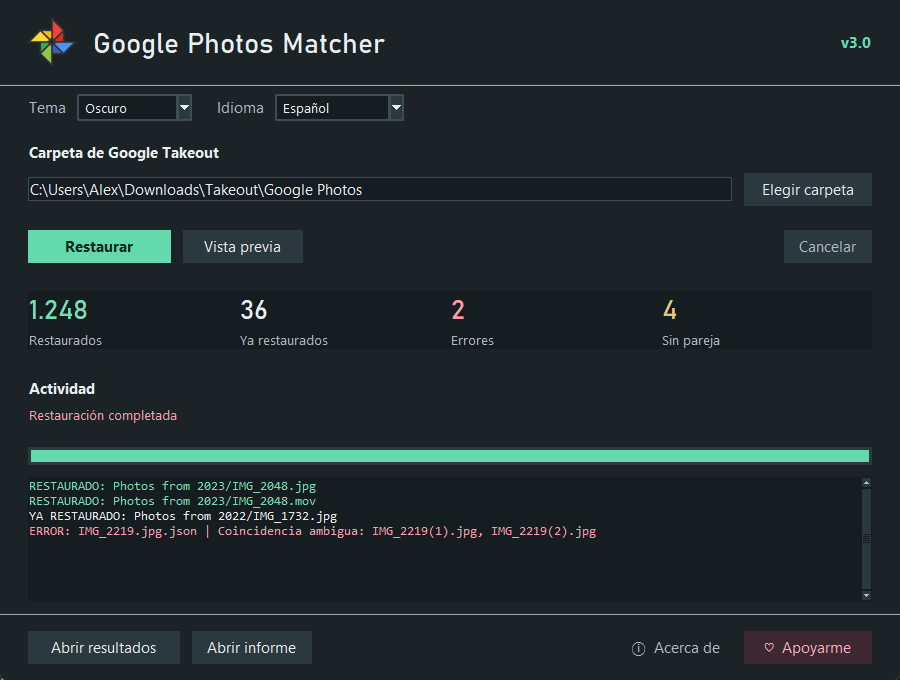
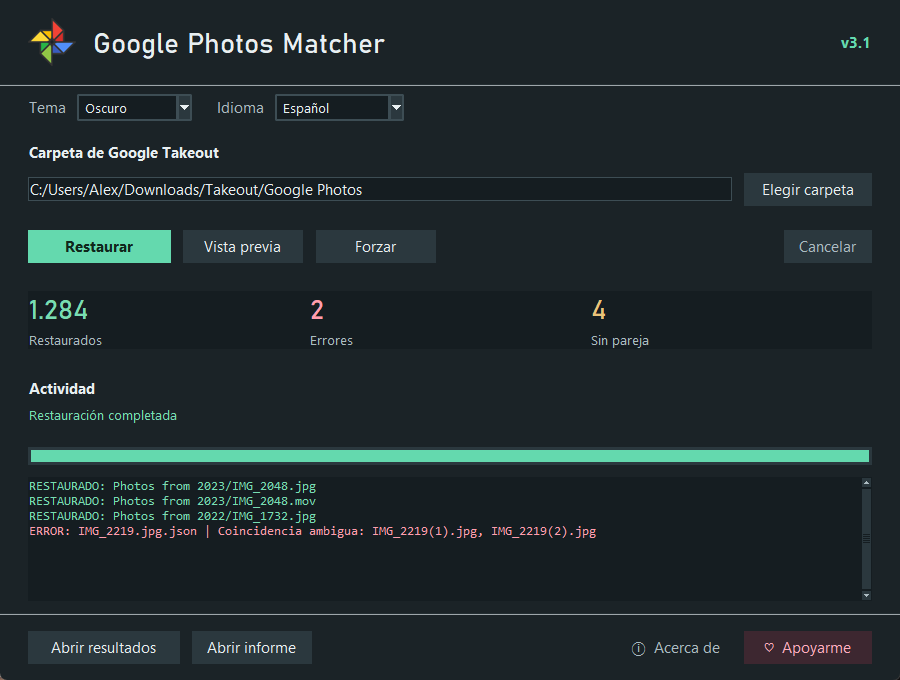
Update README and translations for v3.1: improve backup and force match descriptions; update release notes and image references.

diff --git a/files/translations.py b/files/translations.py
@@ -13,11 +13,11 @@ TEXT = {
         "theme_tip": "Choose the app theme", "language_tip": "Choose the app language",
         "browser_failed": "Could not open browser: {detail}", "preferences_failed": "Could not save preferences: {detail}",
         "backup_title": "A backup is a good idea",
-        "backup_message": "Make a backup of this folder before continuing. Future-you is a big fan of backups.\n\nGPMatcher will edit the media, move restored files into MatchedMedia and originals of edited photos into EditedRaw, and delete their JSON sidecars. Failed files and their JSON stay in their original folders.\n\nA failed write may already have changed some metadata. GPMatcher restores dates, not the past.",
+        "backup_message": "Make a backup of this folder before continuing. Future-you is a big fan of backups.\n\nGPMatcher edits the originals. Restored media go into the flat MatchedMedia folder; originals of edited photos go into the flat EditedRaw folder. Takeout subfolders are not recreated. Name clashes get a number (photo(1).jpg), never overwriting existing files. Successful matches delete their JSON; failed or unmatched files keep theirs.\n\nThere is no automatic backup or undo. A failed write may have changed some metadata. GPMatcher restores dates, not the past.",
         "backup_continue": "Continue and match",
-        "force": "Force match", "force_tip": "Retry failed files with riskier fixes",
-        "force_title": "Force match the failed files?",
-        "force_message": "GPMatcher will retry the files that failed using riskier fixes:\n\n\u2022 Rename files whose content belongs to another format (for example, a PNG named .jpg).\n\u2022 Ignore minor metadata errors, rebuild damaged metadata or, as a last resort, remove the metadata already embedded in the file (camera, lens, etc.) before writing the Google Photos data.\n\u2022 Use the only file with the same name but another extension, and discard invalid GPS or descriptions.\n\nRisky fixes are tried on a temporary copy first. Forced results are saved in MatchedMedia/ForcedMatches so you can review them. Files that still fail stay in their folder as unmatched.",
+        "force": "Force match", "force_tip": "Retry errors and unmatched files with riskier fixes",
+        "force_title": "Force match the remaining files?",
+        "force_message": "Make a backup before continuing. GPMatcher retries failed or unmatched files with riskier fixes:\n\n\u2022 Correct extensions using the real file content (for example, a PNG named .jpg).\n\u2022 Ignore minor errors, rebuild damaged metadata or, as a last resort, remove existing metadata (camera, lens, etc.) before writing the Google Photos data.\n\u2022 Use the only file with the same name and another extension; discard invalid GPS or descriptions.\n\nMetadata repair retries use a temporary copy, replacing the original only on success. Live Photos only get the non-destructive retry.\n\nResults: MatchedMedia/ForcedMatches; edited originals: EditedRaw/ForcedMatches. Files that still fail keep their JSON, count as unmatched and appear in the CSV report. MKV files, missing dates and ambiguous matches cannot be forced.",
         "force_continue": "Force match",
     },
     "es": {
@@ -32,11 +32,11 @@ TEXT = {
         "theme_tip": "Elegir el tema de la aplicaci\u00f3n", "language_tip": "Elegir el idioma de la aplicaci\u00f3n",
         "browser_failed": "No se pudo abrir el navegador: {detail}", "preferences_failed": "No se pudieron guardar las preferencias: {detail}",
         "backup_title": "Una copia de seguridad viene bien",
-        "backup_message": "Recomendamos hacer una copia de esta carpeta antes de continuar. Tu yo del futuro te lo agradecer\u00e1; quiz\u00e1 hasta te invite a un caf\u00e9.\n\nGPMatcher modificar\u00e1 los archivos, guardar\u00e1 los restaurados en MatchedMedia y los originales de fotos editadas en EditedRaw, y borrar\u00e1 sus JSON. Los que fallen se quedar\u00e1n en su carpeta con su JSON.\n\nUn fallo de escritura puede dejar metadatos cambiados. Restauramos fechas, no viajamos en el tiempo.",
+        "backup_message": "Recomendamos hacer una copia de esta carpeta antes de continuar. Tu yo del futuro te lo agradecer\u00e1; quiz\u00e1 hasta te invite a un caf\u00e9.\n\nGPMatcher modifica los originales. Los restaurados van a la carpeta plana MatchedMedia y los originales de fotos editadas a la carpeta plana EditedRaw. No se recrean las subcarpetas de Takeout. Los nombres repetidos reciben un n\u00famero (photo(1).jpg), sin sobrescribir archivos. Las parejas completadas pierden su JSON; los archivos con errores o sin pareja lo conservan.\n\nNo hay copia autom\u00e1tica ni deshacer. Un fallo de escritura puede dejar metadatos cambiados. Restauramos fechas, no viajamos en el tiempo.",
         "backup_continue": "Continuar y restaurar",
-        "force": "Forzar", "force_tip": "Reintentar los archivos fallidos con arreglos m\u00e1s arriesgados",
-        "force_title": "\u00bfForzar los archivos fallidos?",
-        "force_message": "GPMatcher reintentar\u00e1 los archivos que fallaron con arreglos m\u00e1s arriesgados:\n\n\u2022 Renombrar archivos cuyo contenido es de otro formato (por ejemplo, un PNG llamado .jpg).\n\u2022 Ignorar errores menores de metadatos, reconstruir metadatos da\u00f1ados o, como \u00faltimo recurso, borrar los metadatos que ya tiene el archivo (c\u00e1mara, objetivo, etc.) antes de escribir los de Google Fotos.\n\u2022 Usar el \u00fanico archivo con el mismo nombre y otra extensi\u00f3n, y descartar GPS o descripciones no v\u00e1lidos.\n\nLos arreglos arriesgados se prueban antes en una copia temporal. Los resultados forzados se guardan en MatchedMedia/ForcedMatches para que puedas revisarlos. Los que sigan fallando se quedar\u00e1n en su carpeta como sin pareja.",
+        "force": "Forzar", "force_tip": "Reintentar errores y archivos sin pareja con arreglos m\u00e1s arriesgados",
+        "force_title": "\u00bfForzar los archivos pendientes?",
+        "force_message": "Haz una copia de seguridad antes de continuar. GPMatcher reintenta archivos con errores o sin pareja con arreglos m\u00e1s arriesgados:\n\n\u2022 Corregir extensiones seg\u00fan el contenido real (por ejemplo, un PNG llamado .jpg).\n\u2022 Ignorar errores menores, reconstruir metadatos da\u00f1ados o, como \u00faltimo recurso, borrar metadatos existentes (c\u00e1mara, objetivo, etc.) antes de escribir los de Google Fotos.\n\u2022 Usar el \u00fanico archivo con el mismo nombre y otra extensi\u00f3n; descartar GPS o descripciones no v\u00e1lidos.\n\nLos reintentos de reparaci\u00f3n usan una copia temporal y solo sustituyen el original si tienen \u00e9xito. Las Live Photos solo reciben el reintento no destructivo.\n\nResultados: MatchedMedia/ForcedMatches; originales editados: EditedRaw/ForcedMatches. Los fallos conservan su JSON, cuentan como sin pareja y aparecen en el informe CSV. No se pueden forzar MKV, fechas ausentes ni parejas ambiguas.",
         "force_continue": "Forzar",
     },
 }

diff --git a/tests/test_matching.py b/tests/test_matching.py
@@ -252,6 +252,18 @@ class PreferenceTests(unittest.TestCase):
         self.assertEqual(localize_message("ERROR: photo.jpg | Missing photo timestamp", "es"), "ERROR: photo.jpg | Falta la fecha de la foto")
         self.assertEqual(localize_message("ERROR: Scanning: photo.jpg | Missing photo timestamp", "es"), "ERROR: Scanning: photo.jpg | Falta la fecha de la foto")
 
+    def test_v31_warnings_describe_output_locations_and_force_report(self):
+        from translations import text
+
+        for language in ("en", "es"):
+            with self.subTest(language=language):
+                backup = text(language, "backup_message")
+                for value in ("MatchedMedia", "EditedRaw", "photo(1).jpg"):
+                    self.assertIn(value, backup)
+                forced = text(language, "force_message")
+                for value in ("MatchedMedia/ForcedMatches", "EditedRaw/ForcedMatches", "Live Photos", "CSV"):
+                    self.assertIn(value, forced)
+
     def test_windows_defaults_read_application_theme_and_ui_language(self):
         from preferences import system_language, system_theme
 

diff --git a/README.md b/README.md
@@ -1,16 +1,16 @@
 # Google Photos Matcher (v3.1)
 
-**[Download for Windows (v3.1)](https://anderbggo.github.io/gpmatcher)** | [Release notes](https://github.com/anderbggo/GooglePhotosMatcher/releases/tag/v3.0)
+**[Download for Windows (v3.1)](https://anderbggo.github.io/gpmatcher/)** | [Release notes](https://github.com/anderbggo/GooglePhotosMatcher/releases/tag/v3.1)
 
 Windows 64-bit. Portable: no installation, Python, or separate ExifTool setup required.
 
 > Simple tool to restore metadata (date, GPS coordinates, etc.) from Google Photos JSON files back into your original images and videos — just like [MetadataFixer](https://metadatafixer.com/pricing), but **free and open source**!
 >
-> <img width="900" height="680" alt="Google Photos Matcher v3.0 light interface" src="assets/interface-v3.png" />
+> <img width="900" height="680" alt="Google Photos Matcher v3.1 light interface" src="assets/interface-v3.png?v=3.1" />
 
 <details>
 <summary>Dark mode and Spanish interface</summary>
-<img width="900" height="680" alt="Google Photos Matcher v3.0 dark interface in Spanish" src="assets/interface-v3-dark.png" />
+<img width="900" height="680" alt="Google Photos Matcher v3.1 dark interface in Spanish" src="assets/interface-v3-dark.png?v=3.1" />
 </details>
 
 
@@ -22,7 +22,7 @@ When you download media from Google Photos via Takeout, the files lose important
 
 **GPMatcher** reads those JSONs and writes metadata directly into the original photos and videos. Successfully restored media are moved into a single flat `MatchedMedia` folder, while original versions of edited photos go into `EditedRaw`; the export's year/album subfolders are not recreated. If two files share a name, the later one gets a number (`photo(1).jpg`). JSON sidecars are deleted after a successful restoration; failed or unmatched media and their JSON remain in their original folders.
 
-**Make a backup before using Match.** There is no automatic copy or undo: if writing fails partway through, some metadata may already have changed. The app displays a confirmation before every Match run; Preview does not modify or move media.
+**Make a backup before using Match or Force match.** There is no automatic copy or undo: if writing fails partway through, some metadata may already have changed. Force match may remove existing camera or lens metadata as a last resort. The app displays a confirmation before every Match or Force match run; Preview does not modify or move media.
 
 Matching uses both the JSON filename and its `title`, including numbered duplicates, supplemental metadata suffixes, case differences, Unicode normalization, edited versions, and recognizable Takeout truncation patterns. Ambiguous matches are reported instead of guessed.
 
@@ -40,7 +40,7 @@ Matching uses both the JSON filename and its `title`, including numbered duplica
 
 4. Click **Preview** to inspect the matching plan without writing media, or **Match** to process it. Before Match starts, the app recommends a backup and asks for explicit confirmation. **Cancel** stops after the current file is completed.
 
-5. Restored media appear in `MatchedMedia`; original versions of edited photos are stored in `EditedRaw`. JSON files for successful matches are deleted, not copied into the output. Failed media stay in their original folders with their JSON. Click **Open results** or **Open report** to inspect the output. The CSV report lists only errors, with the JSON, affected media, and cause. Successful matches, previews, skipped sidecars, and unmatched media are omitted from the CSV; the app's counters still show the complete summary. If there are no errors, the CSV contains its column headers only.
+5. Restored media appear in `MatchedMedia`; original versions of edited photos are stored in `EditedRaw`. JSON files for successful matches are deleted, not copied into the output. Failed media stay in their original folders with their JSON. Click **Open results** or **Open report** to inspect the output. The CSV report lists errors and failed Force match attempts, with the JSON, affected media, and cause. Failed Force match attempts count as unmatched but are included in the CSV. Successful matches, previews, skipped sidecars, and other unmatched media are omitted; the Matched, Errors and Unmatched counters still show the complete summary. If there are no reportable failures, the CSV contains its column headers only.
 
 6. If a Match run ends with errors or unmatched files, a **Force match** button appears. See [Force match](#force-match) below.
 
@@ -79,7 +79,7 @@ Common edited-photo suffixes are detected automatically, including `editado`, `e
 
 ### Why do some files stay unmatched?
 
-Open the CSV report to see the reason. Recognizable special characters and duplicate-name patterns are handled automatically. If several files are plausible, GPMatcher does not modify them. Missing media, conflicting sidecars, invalid timestamps/GPS, unsupported formats, and ExifTool errors are reported explicitly. Failed writes retain the original location and JSON, but may have partially updated metadata; restore from your backup if needed. Many of these cases can be retried with [Force match](#force-match).
+Check the activity log and counters; the CSV lists errors and failed Force match attempts, not every unmatched file. Recognizable special characters and duplicate-name patterns are handled automatically. If several files are plausible, GPMatcher does not modify them. Missing media, conflicting sidecars, invalid timestamps/GPS, unsupported formats, and ExifTool errors are reported explicitly. Failed writes retain the original location and JSON, but may have partially updated metadata; restore from your backup if needed. Many of these cases can be retried with [Force match](#force-match).
 
 ### Do the photos already contain metadata?
 
